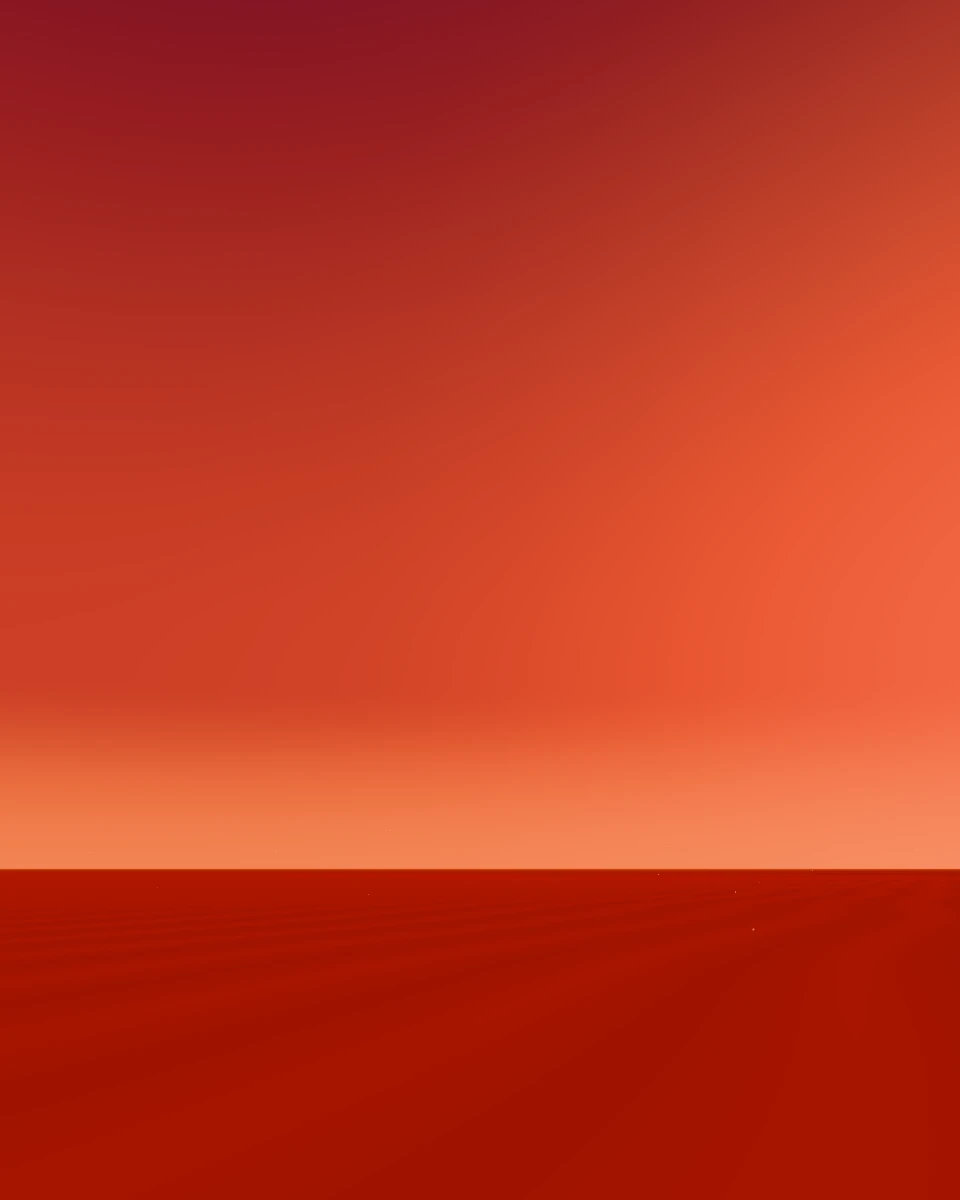
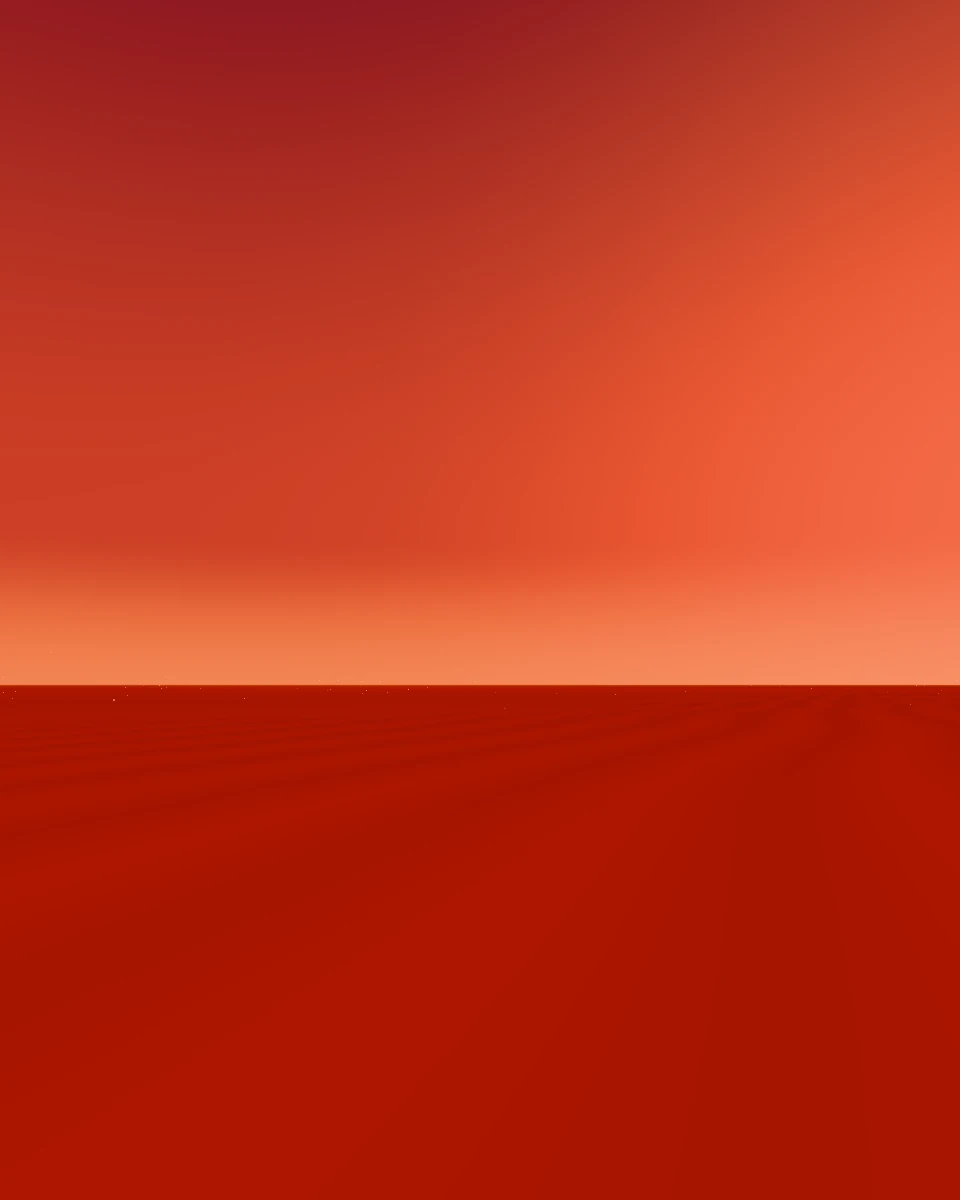
elysicester: on a phone, the door's horizon where the scene's is (R41b)
R41's door shows the Mega-Screen scene's first frame from the first paint, and the scene takes its place unseen. On a
phone it didn't: the tall picture's horizon lay at 72% of the screen and the scene's at 57%, so the horizon jumped as
the scene took over. The tall picture is baked at 4:5, the widest screen it serves (tools/bake-door.mjs), and the page
takes 4:5 as tall (style.css @media (max-aspect-ratio: 4/5)), but megascreen.js framed 4:5 itself as wide
(aspect < 0.8). Now 4:5 is tall there too (aspect <= 0.8), and assets/door-tall.webp is baked again, with the tall
framing (its horizon at 57%). The wide picture is as it was. Checked at the door, phone and computer: the first paint
and the scene's first frame, side by side, the horizon and the sky where they were.

Stamp 16d352264b.

Claude-Session: https://claude.ai/code/session_01QABYV48EE6r45oE4orzA8r

Changed region(s): [[0.0, 0.4625, 1.0, 0.74]]

diff --git a/index.html b/index.html
@@ -45,7 +45,7 @@
                     const door = document.createElement('link');
                     door.rel = 'preload';
                     door.as = 'image';
-                    door.href = `v/a126542e8b/assets/door-${shape}.webp`;
+                    door.href = `v/16d352264b/assets/door-${shape}.webp`;
                     door.media = media;
                     door.fetchPriority = 'high';
                     document.head.append(door);
@@ -53,7 +53,7 @@
             }
         })();
     </script>
-    <link rel="stylesheet" href="v/a126542e8b/style.css">
+    <link rel="stylesheet" href="v/16d352264b/style.css">
     <noscript><style>.threshold, .veil, .controls { display: none; }</style></noscript>
     <script type="importmap">
     {
@@ -63,7 +63,7 @@
         }
     }
     </script>
-    <script type="module" src="v/a126542e8b/main.js"></script>
+    <script type="module" src="v/16d352264b/main.js"></script>
 </head>
 <body>
     <nav class="plainly" aria-label="Leave the diorama">

diff --git a/modules/megascreen.js b/modules/megascreen.js
@@ -685,7 +685,10 @@ export async function showMegaScreen({ renderer, fit, reducedMotion, showing, on
     function frame() {
         renderer.getDrawingBufferSize(size);
         const aspect = size.x / Math.max(1, size.y);
-        const tall = aspect < 0.8;
+        // (Tall up to 4:5 itself, as the page's door takes it, style.css @media (max-aspect-ratio: 4/5): the door's tall
+        // picture is baked at 4:5 (tools/bake-door.mjs), and taken there as wide it showed a phone a horizon that jumped
+        // when this scene took its place.)
+        const tall = aspect <= 0.8;
         camera.aspect = aspect;
         camera.fov = tall ? 64 : 54;
         const halfAcross = Math.atan(Math.tan(MathUtils.degToRad(camera.fov / 2)) * aspect);
